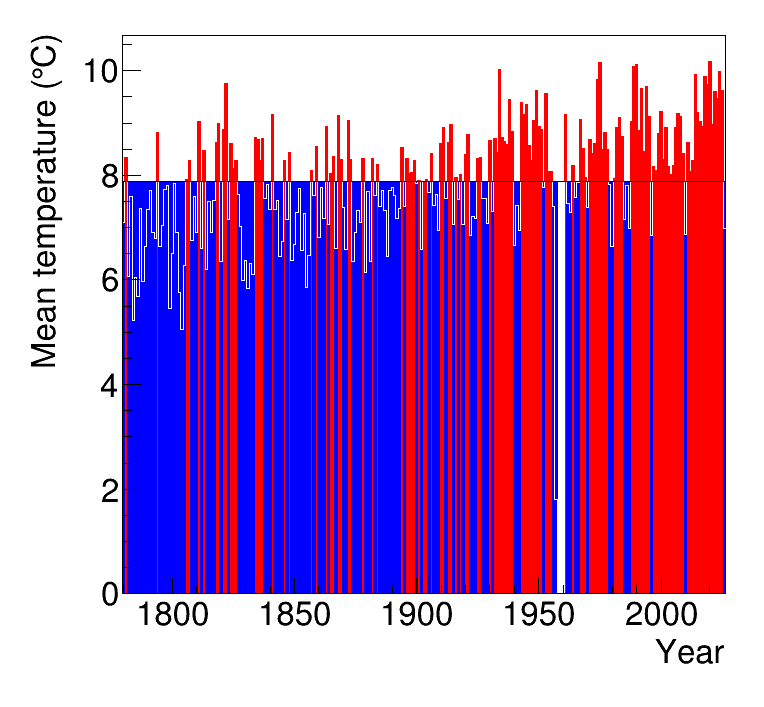
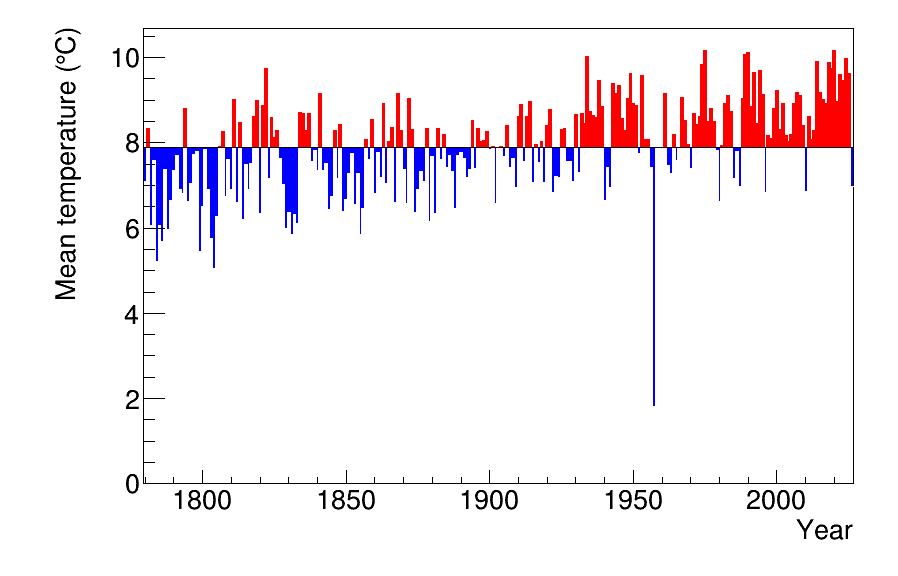
Bug in histogram fixed

diff --git a/src/yearly_average.C b/src/yearly_average.C
@@ -149,9 +149,9 @@ above->SetLineColor(kRed);
 above->SetFillColor(kRed);
 below->SetLineColor(kBlue);
 below->SetFillColor(kBlue);
-white->SetFillStyle(1001);
-white->SetLineColor(kWhite);
-white->SetFillColor(kWhite);
+white->SetFillColor(10);
+white->SetLineColor(10);
+
 
 
 
